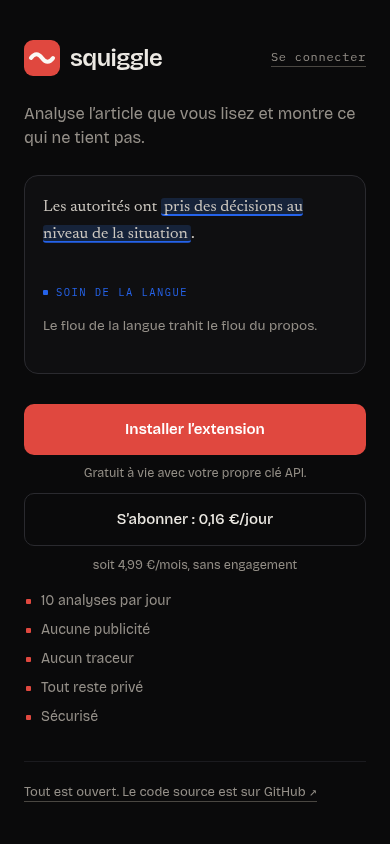
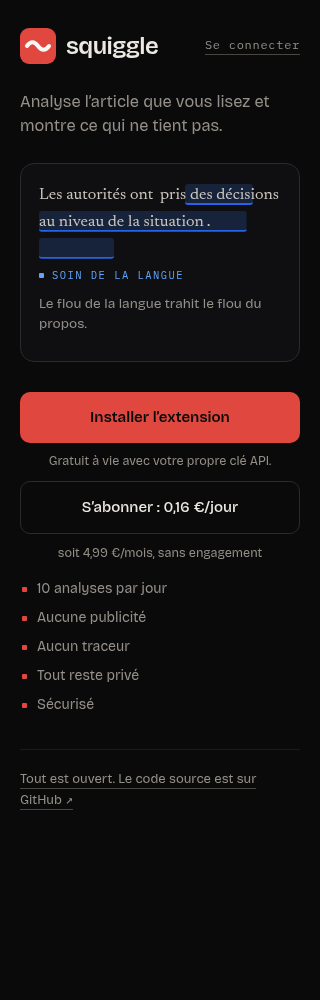
Fix web dark-theme contrast to WCAG AA (#39)
The ported dark theme shipped white-on-accent primary buttons (4.06:1)
and the demo's darker severity fills as category-label text (critical
3.96, info 3.70), both below AA. Switch every primary CTA to the
approved dark ink on the accent (4.87:1, hover 6.86:1), give the demo
labels the bright severity tones, raise the form-field border to 3.1:1
non-text, and take selection text off white. Pin the contract in
web/tests/contrast.test.ts.

diff --git a/web/tests/contrast.test.ts b/web/tests/contrast.test.ts
@@ -1,0 +1,65 @@
+/**
+ * The dark theme's AA contract, measured with the sRGB relative-luminance
+ * method. The port shipped white-on-accent (4.06:1) and the demo's darker
+ * severity fills as label text (critical 3.96, info 3.70); this pins the fixed
+ * pairs so a later recolour cannot quietly drop them back below AA.
+ */
+import { describe, expect, it } from 'vitest';
+
+import config from '../tailwind.config';
+import { SEVERITY_COLORS } from '../src/demo';
+
+const colors = config.theme.extend.colors as Record<string, string>;
+
+function luminance(hex: string): number {
+  const h = hex.replace('#', '');
+  const channels = [0, 2, 4].map((i) => {
+    const c = parseInt(h.slice(i, i + 2), 16) / 255;
+    return c <= 0.04045 ? c / 12.92 : ((c + 0.055) / 1.055) ** 2.4;
+  });
+  return 0.2126 * channels[0] + 0.7152 * channels[1] + 0.0722 * channels[2];
+}
+
+function contrast(a: string, b: string): number {
+  const [hi, lo] = [luminance(a), luminance(b)].sort((x, y) => y - x);
+  return (hi + 0.05) / (lo + 0.05);
+}
+
+describe('text contrast on the dark theme (AA, 4.5:1)', () => {
+  const grounds = ['background', 'surface'] as const;
+
+  it.each(grounds)('keeps body/muted/faint text readable on %s', (ground) => {
+    for (const ink of ['foreground', 'muted', 'faint']) {
+      expect(contrast(colors[ink], colors[ground])).toBeGreaterThanOrEqual(4.5);
+    }
+  });
+
+  it('puts dark ink on the accent, not white', () => {
+    expect(contrast(colors.accentForeground, colors.accent)).toBeGreaterThanOrEqual(4.5);
+    expect(contrast(colors.accentForeground, colors.accentHover)).toBeGreaterThanOrEqual(4.5);
+  });
+
+  it('keeps the accent-tinted error text readable on its tint', () => {
+    expect(contrast(colors.accentInk, colors.accentSoft)).toBeGreaterThanOrEqual(4.5);
+  });
+
+  it('labels every demo severity with a readable tone on the panel', () => {
+    for (const { text } of Object.values(SEVERITY_COLORS)) {
+      expect(contrast(text, colors.surface)).toBeGreaterThanOrEqual(4.5);
+    }
+  });
+});
+
+describe('non-text contrast (AA, 3:1)', () => {
+  it('outlines form fields against both grounds', () => {
+    for (const ground of ['background', 'surface']) {
+      expect(contrast(colors.borderControl, colors[ground])).toBeGreaterThanOrEqual(3);
+    }
+  });
+
+  it('keeps the focus ring visible against both grounds', () => {
+    for (const ground of ['background', 'surface']) {
+      expect(contrast(colors.accentHover, colors[ground])).toBeGreaterThanOrEqual(3);
+    }
+  });
+});

diff --git a/web/src/pages/Connexion.tsx b/web/src/pages/Connexion.tsx
@@ -108,14 +108,14 @@ export function Connexion() {
               autoComplete="email"
               value={email}
               onChange={(e) => setEmail(e.target.value)}
-              className="mt-1.5 w-full rounded-lg border border-border bg-surface px-3.5 py-2.5 outline-none focus:border-accent"
+              className="mt-1.5 w-full rounded-lg border border-borderControl bg-surface px-3.5 py-2.5 outline-none focus:border-accent"
               placeholder="vous@exemple.fr"
             />
           </label>
           <button
             type="submit"
             disabled={busy}
-            className="w-full rounded-lg bg-accent px-4 py-3 font-medium text-white hover:bg-accentHover disabled:opacity-60"
+            className="w-full rounded-lg bg-accent px-4 py-3 font-medium text-accentForeground hover:bg-accentHover disabled:opacity-60"
           >
             Recevoir mon code
           </button>
@@ -135,7 +135,7 @@ export function Connexion() {
               autoComplete="one-time-code"
               value={code}
               onChange={(e) => setCode(e.target.value.toUpperCase())}
-              className="mt-1.5 w-full rounded-lg border border-border bg-surface px-3.5 py-2.5 font-mono text-lg tracking-[0.3em] outline-none focus:border-accent"
+              className="mt-1.5 w-full rounded-lg border border-borderControl bg-surface px-3.5 py-2.5 font-mono text-lg tracking-[0.3em] outline-none focus:border-accent"
               placeholder="ABCD2345"
               maxLength={12}
             />
@@ -143,7 +143,7 @@ export function Connexion() {
           <button
             type="submit"
             disabled={busy}
-            className="w-full rounded-lg bg-accent px-4 py-3 font-medium text-white hover:bg-accentHover disabled:opacity-60"
+            className="w-full rounded-lg bg-accent px-4 py-3 font-medium text-accentForeground hover:bg-accentHover disabled:opacity-60"
           >
             {busy ? 'Connexion…' : 'Se connecter'}
           </button>

diff --git a/web/src/demo.ts b/web/src/demo.ts
@@ -18,15 +18,24 @@ export type DemoVerification = 'verifiee' | 'non-sourcee' | 'douteuse' | 'non-ve
 export type SeverityLevel = 1 | 2 | 3;
 export type HighlightSeverity = 'critical' | 'warning' | 'info' | 'positive';
 
-/** The extension's own highlight palette (`shadowOverlay.ts` theme). */
-export const SEVERITY_COLORS: Record<HighlightSeverity, { color: string; tint: string }> = {
-  critical: { color: '#dc2626', tint: 'rgba(239, 68, 68, 0.18)' },
-  warning: { color: '#d97706', tint: 'rgba(245, 158, 11, 0.18)' },
-  info: { color: '#2563eb', tint: 'rgba(59, 130, 246, 0.18)' },
-  positive: { color: '#059669', tint: 'rgba(16, 185, 129, 0.18)' },
+/** The extension's own highlight palette (`shadowOverlay.ts` theme). `color` fills
+ * the bar and dot; `text` is the brighter AA tone for the category label on the
+ * dark panel (the darker fills only clear 3:1 as text: critical 3.96, info 3.70). */
+export const SEVERITY_COLORS: Record<
+  HighlightSeverity,
+  { color: string; tint: string; text: string }
+> = {
+  critical: { color: '#dc2626', tint: 'rgba(239, 68, 68, 0.18)', text: '#f87171' },
+  warning: { color: '#d97706', tint: 'rgba(245, 158, 11, 0.18)', text: '#fbbf24' },
+  info: { color: '#2563eb', tint: 'rgba(59, 130, 246, 0.18)', text: '#60a5fa' },
+  positive: { color: '#059669', tint: 'rgba(16, 185, 129, 0.18)', text: '#34d399' },
 };
 
-export function severityColor(severity: HighlightSeverity): { color: string; tint: string } {
+export function severityColor(severity: HighlightSeverity): {
+  color: string;
+  tint: string;
+  text: string;
+} {
   return SEVERITY_COLORS[severity];
 }
 

diff --git a/web/src/pages/Accueil.tsx b/web/src/pages/Accueil.tsx
@@ -14,7 +14,7 @@ const PERKS = [
 ];
 
 const PRIMARY_BUTTON =
-  'flex items-center justify-center gap-2 rounded-control bg-accent px-[18px] py-[14px] text-[15px] font-semibold text-white transition-[transform,background-color,border-color,color] duration-[160ms] ease-out hover:bg-accentHover active:scale-[0.97] motion-reduce:active:scale-100';
+  'flex items-center justify-center gap-2 rounded-control bg-accent px-[18px] py-[14px] text-[15px] font-semibold text-accentForeground transition-[transform,background-color,border-color,color] duration-[160ms] ease-out hover:bg-accentHover active:scale-[0.97] motion-reduce:active:scale-100';
 const SECONDARY_BUTTON =
   'flex items-center justify-center gap-2 rounded-control border border-border bg-transparent px-[18px] py-[14px] text-[15px] font-medium text-foreground transition-[transform,background-color,border-color,color] duration-[160ms] ease-out hover:border-accent hover:text-accentInk active:scale-[0.97] motion-reduce:active:scale-100';
 const QUIET_LINK =

diff --git a/web/src/pages/Compte.tsx b/web/src/pages/Compte.tsx
@@ -66,7 +66,7 @@ export function Compte() {
         {error ? <p role="alert" className="mt-4 text-sm text-accent">{error}</p> : null}
         <Link
           to="/connexion?next=/compte"
-          className="mt-6 inline-block rounded-lg bg-accent px-5 py-3 font-medium text-white hover:bg-accentHover"
+          className="mt-6 inline-block rounded-lg bg-accent px-5 py-3 font-medium text-accentForeground hover:bg-accentHover"
         >
           Se connecter
         </Link>
@@ -124,7 +124,7 @@ export function Compte() {
             <button
               onClick={subscribe}
               disabled={busy}
-              className="rounded-lg bg-accent px-5 py-2.5 font-medium text-white hover:bg-accentHover disabled:opacity-60"
+              className="rounded-lg bg-accent px-5 py-2.5 font-medium text-accentForeground hover:bg-accentHover disabled:opacity-60"
             >
               S’abonner — 10 analyses / jour
             </button>

diff --git a/web/src/components/Demo.tsx b/web/src/components/Demo.tsx
@@ -135,9 +135,9 @@ function DemoBody({ example, active, revealed, instant = false, onTyped }: BodyP
       >
         <span
           className="flex items-center gap-2 font-mono text-[10.5px] uppercase tracking-[0.14em]"
-          style={{ color: 'var(--sev-color)' }}
+          style={{ color: color.text }}
         >
-          <span className="h-[5px] w-[5px] flex-none rounded-[1px]" style={{ background: 'var(--sev-color)' }} />
+          <span className="h-[5px] w-[5px] flex-none rounded-[1px]" style={{ background: color.text }} />
           {example.cat}
         </span>
         <p className="m-0 text-[0.85rem] leading-normal text-muted">{example.explain}</p>

diff --git a/web/src/App.tsx b/web/src/App.tsx
@@ -23,7 +23,7 @@ function NotFound() {
       <p className="font-mono text-sm text-accent">404</p>
       <h1 className="mt-3 font-display text-3xl font-semibold tracking-tight">Page introuvable</h1>
       <p className="mt-3 text-muted">Le lien est peut-être ancien ou mal orthographié.</p>
-      <a href="/" className="mt-6 inline-block rounded-lg bg-accent px-5 py-3 font-medium text-white hover:bg-accentHover">
+      <a href="/" className="mt-6 inline-block rounded-lg bg-accent px-5 py-3 font-medium text-accentForeground hover:bg-accentHover">
         Revenir à l’accueil
       </a>
     </div>

diff --git a/web/tailwind.config.ts b/web/tailwind.config.ts
@@ -19,10 +19,12 @@ export default {
         muted: '#948f88',
         faint: '#938e86',
         border: '#2a2a2f',
+        borderControl: '#66666f',
         lineSoft: '#1b1b1f',
         foreground: '#ece9e3',
         accent: '#e0483f',
-        accentHover: '#c93a32',
+        accentForeground: '#0a0a0b',
+        accentHover: '#ef7268',
         accentSoft: '#251010',
         accentInk: '#f08a80',
       },

diff --git a/web/src/pages/Pont.tsx b/web/src/pages/Pont.tsx
@@ -99,7 +99,7 @@ export function Pont() {
         </p>
         <Link
           to={`/connexion?next=${next}`}
-          className="mt-6 inline-block rounded-lg bg-accent px-5 py-3 font-medium text-white hover:bg-accentHover"
+          className="mt-6 inline-block rounded-lg bg-accent px-5 py-3 font-medium text-accentForeground hover:bg-accentHover"
         >
           Se connecter
         </Link>

diff --git a/web/src/index.css b/web/src/index.css
@@ -15,7 +15,7 @@
 
   ::selection {
     background: theme('colors.accent');
-    color: #fff;
+    color: theme('colors.accentForeground');
   }
 
   :focus-visible {

diff --git a/AGENTS.md b/AGENTS.md
@@ -33,7 +33,10 @@ logic and palette (`web/src/demo.ts` mirrors `src/adapters/findingAdapters.ts`
 `severityToHighlightSeverity` and `src/content/shadowOverlay.ts`'s colours), and the
 R2-02 badge (`web/src/components/Brand.tsx` beside `src/ui/components/SquiggleBadge.tsx`,
 plus the PNGs in `src/assets/`). The design tokens themselves live in
-`web/tailwind.config.ts` and `web/src/index.css`.
+`web/tailwind.config.ts` and `web/src/index.css`. The dark theme's WCAG AA
+contract is pinned by `web/tests/contrast.test.ts`: primary buttons carry
+`accentForeground` (near-black) on `accent`, and demo severity labels use the
+bright `text` tone, not the darker fill that only clears 3:1 as text.
 
 ## Hosted mode in the extension
 
